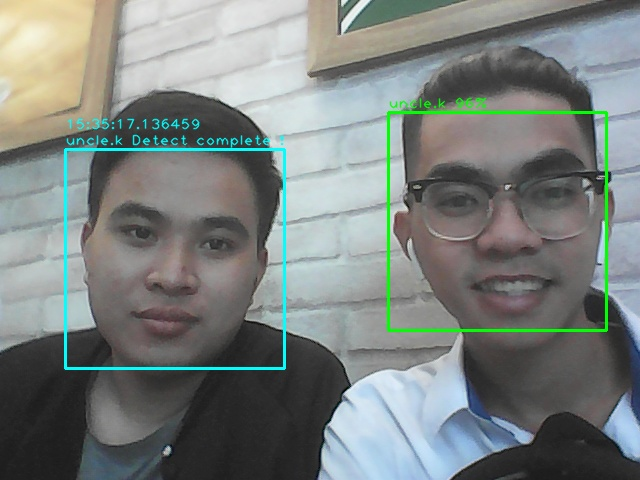
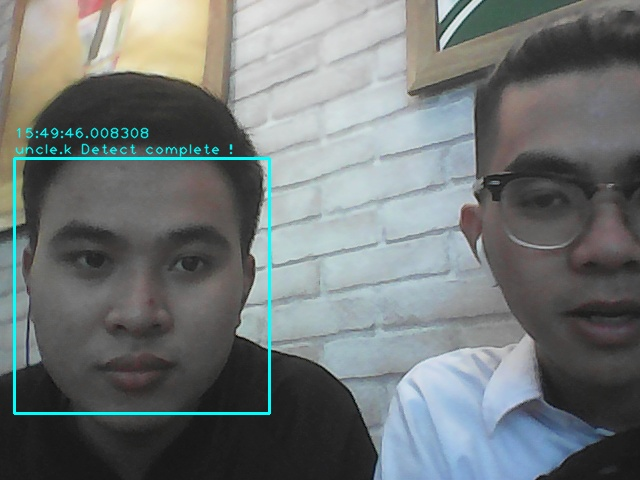
them luong detector va them thanh progress cho viec train va load classifer

diff --git a/View/Detector.py b/View/Detector.py
@@ -1,6 +1,6 @@
 from datetime import datetime
 import cv2
-import threading
+from threading import Thread
 import numpy as np
 
 from Model.UserClass import ListUserDetector
@@ -9,14 +9,19 @@ COLOR_FACE = (250, 128, 114)
 COLOR_FACE_DETECT = (0, 255, 0)
 COLOR_FACE_COMPLETE = (255, 255, 0)
 # COLOR OF TEXT OF RECTANGLE AROUND FACE
-# FIRST_CONFIDENCE = 65
-SECOND_CONFIDENCE = 45
+# FIRST_DIFF = 30
+SECOND_DIFF = 40
+
+
 # 2 POWERFUL NUM THAT DECIDE IS THAT OUR USER OR NOT
 
 
-class Detector:
-    def __init__(self, names):
+class Detector(Thread):
+    def __init__(self, names,progress_bar):
         # List users
+        super().__init__()
+        self.progress = 1
+        self.progress_bar = progress_bar
         self.list_users = ListUserDetector(names)
         self.list_users.show_list_users()
         # List recognizer
@@ -27,8 +32,11 @@ class Detector:
         self.font = cv2.FONT_HERSHEY_PLAIN
         self.face_cascade = cv2.CascadeClassifier('../Model/data/haarcascade_frontalface_default.xml')
 
+    def run(self):
+        self.main_app()
+
     def thread_recog(self, gray, faces, index_perdict, array_confidence_temp):
-        for indexFace,(x, y, w, h) in enumerate(faces):
+        for indexFace, (x, y, w, h) in enumerate(faces):
             # Recognize name of face
             roi_gray = gray[y:y + h, x:x + w]
             # diff is distance between two vectors
@@ -54,7 +62,7 @@ class Detector:
         for index_to_read in list_index:
             path_t = "../Model/data/classifiers/" + self.list_users[index_to_read].name + "_classifier.xml"
             self.recognizer[index_to_read].read(path_t)
-            print("Load ", index_to_read + 1, "on", self.list_users.__len__())
+            self.progress_bar['value'] += (self.progress+1)/len(self.list_users) * 100
 
     def read_necessary_classifiers(self):
         # Create this list to Multithreading
@@ -70,7 +78,7 @@ class Detector:
         list1, list2, list3, list4, list5, list6, list7, list8 = np.array_split(list_index_user, 8)
         read_threads = list()
         for list_temp in [list1, list2, list3, list4, list5, list6, list7, list8]:
-            temp_reading_thread = threading.Thread(target=self.read_single_classifier, args=(list_temp,))
+            temp_reading_thread = Thread(target=self.read_single_classifier, args=(list_temp,))
             read_threads.append(temp_reading_thread)
             temp_reading_thread.start()
 
@@ -103,11 +111,11 @@ class Detector:
 
             # Create threads to recognize
             # One thread run one recognizer to detect faces then predict with it's user
-            array_confidence = np.empty((len(faces),len(self.list_users)),dtype=np.int16)
+            array_confidence = np.full((len(faces), len(self.list_users)), 100, dtype=np.int16)
 
             threads = list()
             for index in range(len(self.list_users)):
-                x = threading.Thread(target=self.thread_recog, args=(gray, faces, index,array_confidence))
+                x = Thread(target=self.thread_recog, args=(gray, faces, index, array_confidence))
                 threads.append(x)
                 x.start()
 
@@ -118,7 +126,7 @@ class Detector:
             # If found face then do
             if len(faces) > 0:
                 for index_face, (x, y, w, h) in enumerate(faces):
-                    max_conf = array_confidence[index_face].min()
+                    min_diff = array_confidence[index_face].min()
                     index_min = array_confidence[index_face].argmin()
 
                     # Draw rectangles
@@ -127,8 +135,8 @@ class Detector:
                     colorRectangle = COLOR_FACE
                     # -> upper confidence to maximum but still got the user name
                     # turn it between 40 and 90 based on situation
-                    print(max_conf)
-                    if max_conf < SECOND_CONFIDENCE:
+                    print(min_diff)
+                    if min_diff < SECOND_DIFF:
                         self.list_users[index_min].detect_user()
                         # if detect more than 10 point then begin to show
                         if self.list_users[index_min].counter > 10:
@@ -141,6 +149,7 @@ class Detector:
                     self.frame = cv2.putText(self.frame, text, (x, y - 4), self.font, 1, colorRectangle, 1, cv2.LINE_AA)
 
             cv2.imshow("image", self.frame)
+            print(array_confidence)
             # show the result
             if cv2.waitKey(20) & 0xFF == ord('q'):
                 break

diff --git a/Controller/app-gui2.py b/Controller/app-gui2.py
@@ -4,13 +4,14 @@ from Model.train_all_classifiers import train_all_classifers
 from Model.create_one_new_classifier import train_one_classifer
 from Model.create_dataset import start_capture
 import tkinter as tk
-from tkinter import font as tkfont
+from tkinter import font as tkfont, ttk
 from tkinter import messagebox, PhotoImage
 
 # from PIL import ImageTk, Image
 # from gender_prediction import emotion,age And gender
 
 names = []
+
 
 class MainUI(tk.Tk):
 
@@ -25,7 +26,7 @@ class MainUI(tk.Tk):
         self.title_font = tkfont.Font(family='Helvetica', size=16, weight="bold")
         self.title("Face Recognizer")
         self.resizable(False, False)
-        self.geometry("500x350")
+        self.geometry("510x350")
         self.protocol("WM_DELETE_WINDOW", self.on_closing)
         self.active_name = None
 
@@ -71,6 +72,8 @@ class StartPage(tk.Frame):
         img = tk.Label(self, image=render)
         img.image = render
         img.grid(row=0, column=1, rowspan=4, sticky="nsew")
+        self.progress_bar = ttk.Progressbar(self, orient=tk.HORIZONTAL, length=100, mode="determinate")
+        self.progress_bar.grid(row=4, column=1, sticky="nsew")
         label = tk.Label(self, text="     Face Attendance     \n    Recorder System    ", font=self.controller.title_font, fg="#263942")
         label.grid(row=0, sticky="ew")
 
@@ -107,14 +110,15 @@ class StartPage(tk.Frame):
         names = self.controller.list_users
 
     def openwebcam(self):
-        # new_window = tk.Toplevel(self)
-        # detected_winddown = DetectedUser(new_window)
-        # to show dectected employee
         global names
         if names is not None:
             print("Detecting....")
-            dec = Detector(names)
-            dec.main_app()
+            dec = Detector(names,self.progress_bar)
+            dec.start()
+            # to show dectected employee
+            new_window = tk.Toplevel(self)
+            detected_winddown = DetectedUser(new_window)
+
         else:
             messagebox.showinfo("INSTRUCTIONS", "List users is empty. Let add someone first!")
 

diff --git a/IdeaPhatTrien/test.py b/IdeaPhatTrien/test.py
@@ -13,14 +13,48 @@
 #     cv2.imshow("image3", gray)
 #     if cv2.waitKey(20) & 0xFF == ord('q'):
 #         break
-import numpy as np
 
-faces = [(2,2,2,2),(2,2,2,2)]
-list_users = ["phu","phu","phu","phu","phu","phu","phu","phu","phu","phu","phu","phu","phu","phu","phu"]
-arrayConfidence = np.zeros((len(faces), len(list_users)), dtype=np.int16)
-# arrayConfidence[0]
-arrayConfidence[0][0] = 1
-arrayConfidence[0][3] = 5
-arrayConfidence[1][0] = 8
-arrayConfidence[1][3] = 7
-print(arrayConfidence[0].argmin())
+# import numpy as np
+#
+# faces = [(2,2,2,2),(2,2,2,2)]
+# list_users = ["phu","phu","phu","phu","phu","phu","phu","phu","phu","phu","phu","phu","phu","phu","phu"]
+# arrayConfidence = np.zeros((len(faces), len(list_users)), dtype=np.int16)
+# # arrayConfidence[0]
+# arrayConfidence[0][0] = 1
+# arrayConfidence[0][3] = 5
+# arrayConfidence[1][0] = 8
+# arrayConfidence[1][3] = 7
+# print(arrayConfidence[0].argmin())
+
+from tkinter import *
+from PIL import ImageTk, Image
+import cv2
+
+
+root = Tk()
+# Create a frame
+app = Frame(root, bg="white")
+app.grid()
+# Create a label in the frame
+lmain = Label(app)
+lmain.grid()
+
+# Capture from camera
+cap = cv2.VideoCapture(0)
+
+# function for video streaming
+def video_stream():
+    _, frame = cap.read()
+    gray = cv2.cvtColor(frame, cv2.COLOR_BGR2GRAY)
+    blur = cv2.GaussianBlur(gray, (3, 5), 0)
+    retval, thresh = cv2.threshold(blur, 38, 300, cv2.THRESH_BINARY)
+
+    cv2image = cv2.cvtColor(thresh, cv2.COLOR_BGR2RGBA)
+    img = Image.fromarray(cv2image)
+    imgtk = ImageTk.PhotoImage(image=img)
+    lmain.imgtk = imgtk
+    lmain.configure(image=imgtk)
+    lmain.after(1, video_stream)
+
+video_stream()
+root.mainloop()
